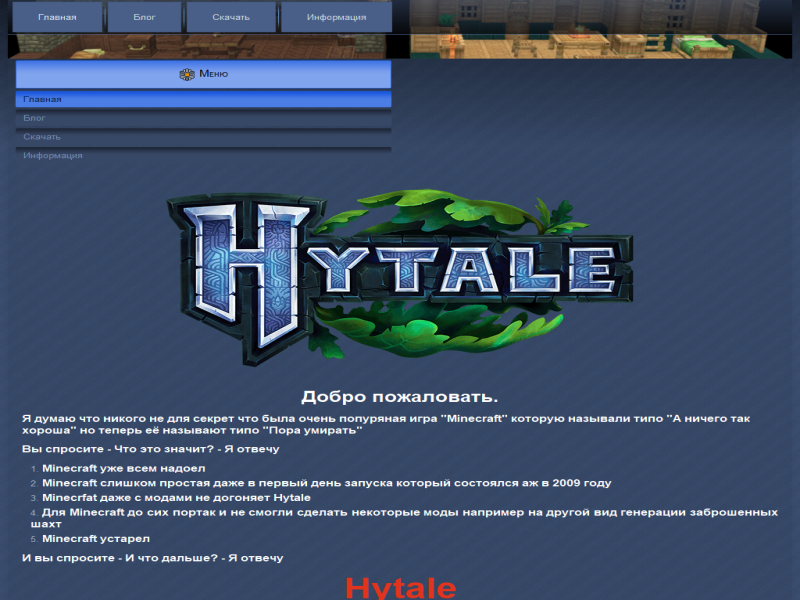
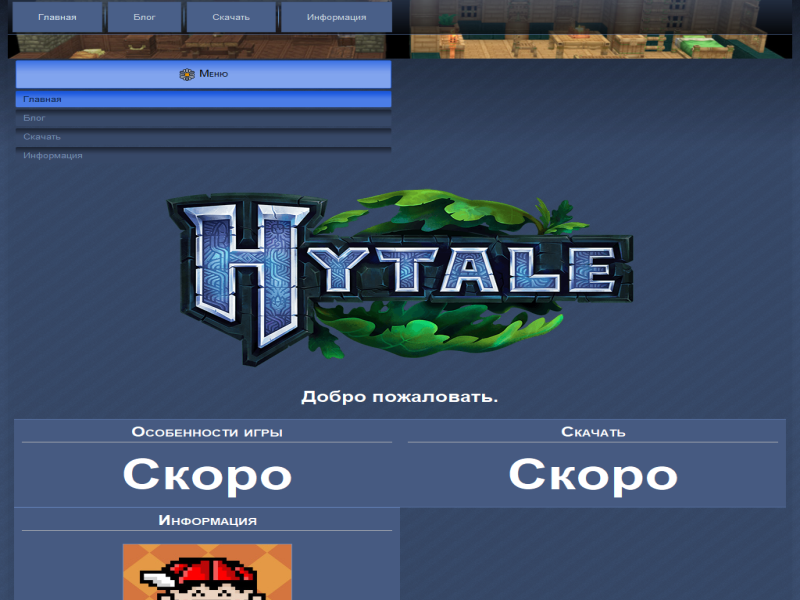
Обновление сайта

Changed region(s): [[0.0, 0.69, 1.0, 1.0]]

diff --git a/index.html b/index.html
@@ -62,39 +62,6 @@
     <div class="art-layout-cell layout-item-2" style="width: 100%" >
         <p style="text-align: center;"><img width="600" height="325" alt="" class="art-lightbox" src="images/logo.png" style="border-top-width: 0px; border-right-width: 0px; border-bottom-width: 0px; border-left-width: 0px; "></p>
         <p style="text-align: center;"><span style="font-weight: bold; font-size: 26px; color: #FFFFFF;">Добро пожаловать.</span></p>
-        <p style="text-align: left;"><span style="color: rgb(255, 255, 255); font-weight: bold; font-size: 16px;">Я думаю что никого не для секрет что была очень попуряная игра "Minecraft" которую называли типо "А ничего так хороша" но теперь её называют типо "Пора умирать"</span></p>
-        <p style="text-align: left;"><span style="color: rgb(255, 255, 255); font-weight: bold; font-size: 16px;">Вы спросите - Что это значит? - Я отвечу</span></p>
-        <p style="text-align: left;">         </p>
-        <ol>
-        <li><span style="color: rgb(255, 255, 255); font-size: 16px; font-weight: bold;">Minecraft уже всем надоел</span><br></li>
-        <li><span style="color: rgb(255, 255, 255); font-size: 16px; font-weight: bold;">Minecraft слишком простая даже в первый день запуска который состоялся аж в 2009 году</span><br></li>
-        <li><span style="color: rgb(255, 255, 255); font-size: 16px; font-weight: bold;">Minecrfat даже с модами не догоняет Hytale</span><br></li>
-        <li><span style="color: rgb(255, 255, 255); font-size: 16px; font-weight: bold;">Для Minecraft до сих портак и не смогли сделать некоторые моды например на другой вид генерации заброшенных шахт</span><br></li>
-        <li><span style="color: rgb(255, 255, 255); font-size: 16px; font-weight: bold;">Minecraft устарел</span></li>
-        </ol>
-        <p style="text-align: justify;"><span style="color: rgb(255, 255, 255); font-size: 16px; font-weight: bold;">И вы спросите - И что дальше? - Я отвечу</span></p>
-        <p style="text-align: center;"><span style="font-weight: bold; font-size: 48px; color: #E2341D;">Hytale</span></p>
-        <p style="text-align: left;"><span style="color: rgb(255, 255, 255); font-size: 16px; font-weight: bold;">Hytale - Это игра в жанре "Песочница" и "Ролевая игра" конкурент игры "Minecraft"</span></p>
-        <p style="text-align: center;"><span style="font-weight: bold; color: rgb(0, 224, 71); font-size: 48px;">Наконец-то</span><span style="color: rgb(255, 255, 255); font-size: 16px; font-weight: bold;"><br></span></p>
-        <p style="text-align: left;"><span style="color: rgb(255, 255, 255); font-size: 16px; font-weight: bold;">В игре в отличии от "Minecraft" есть всё и даже больше</span></p>
-        <p style="text-align: left;">         </p>
-        <ul>
-        <li><span style="color: rgb(255, 255, 255); font-size: 16px; font-weight: bold;">Нормальная анимация</span><br></li>
-        <li><span style="color: rgb(255, 255, 255); font-size: 16px; font-weight: bold;">Искуственный интелекст</span><br></li>
-        <li><span style="color: rgb(255, 255, 255); font-size: 16px; font-weight: bold;">Современная графика</span><br></li>
-        <li><span style="color: rgb(255, 255, 255); font-size: 16px; font-weight: bold;">Тонна типов и видов генерации</span><br></li>
-        <li><span style="color: rgb(255, 255, 255); font-size: 16px; font-weight: bold;">Сервер</span><br></li>
-        <li><span style="color: rgb(255, 255, 255); font-size: 16px; font-weight: bold;">Мощный встроенный</span><span style="color: rgb(255, 255, 255); font-size: 16px; font-weight: bold;">&nbsp;моддинг</span></li>
-        </ul>
-        <p><span style="color: rgb(255, 255, 255); font-size: 16px; font-weight: bold;">Сразу скажу игра разрабатывается компанией "<span style="color: #00E047;">Hypixel Studios</span>" у которого сейчас сервер для игры "Minecraft" и который находится в первом топе среди других серверов</span></p>
-        <p><span style="color: rgb(255, 255, 255); font-size: 16px; font-weight: bold;">И да кстати игра имеет ещё две вещи от которых вы ошалете</span></p>
-        <p></p>
-        <ul>
-        <li><span style="color: rgb(255, 255, 255); font-size: 16px; font-weight: bold;">Игра разрабатывается уже с середины 2015 года тоесть 5 лет</span><br></li>
-        <li><span style="color: rgb(255, 255, 255); font-size: 16px; font-weight: bold;">Этой компании&nbsp;"<span style="color: rgb(0, 224, 71);">Hypixel Studios</span>" помогли из другой компании а именно "<span style="color: #0CDF48;">Riot Games</span>" деньгами а именно "<span style="color: #00E047;">3600000 доларов</span>"</span><br></li>
-        </ul>
-        <p></p>
-        <p><span style="color: rgb(255, 255, 255); font-size: 16px; font-weight: bold;">Итак. Если вы попали сюда случайно то ничего страшного. А если вы хотели попасть именно сюда то добро пожаловать. На нашем сайте будет много всего интерестного по этой игре</span></p>
         <p>         </p>
         <p>     </p>
     </div>
@@ -111,7 +78,7 @@
         <h3 style="padding-bottom: 5px; border-bottom-width: 1px; border-bottom-style: solid; border-bottom-color: rgb(189, 189, 189);"><span style="color: rgb(255, 255, 255); font-size: 24px; font-weight: bold;">Скачать</span><br></h3>
         <p style="text-align: center;"><span style="color: rgb(255, 255, 255); font-weight: bold; font-size: 72px;">Скоро</span><span style="color: rgb(255, 255, 255); font-size: 24px; font-weight: bold;"><br></span></p>
     </div><div class="art-layout-cell layout-item-3" style="width: 33%" >
-        <h3 style="padding-bottom: 5px; border-bottom-width: 1px; border-bottom-style: solid; border-bottom-color: rgb(189, 189, 189);"><span style="font-size: 24px; font-weight: bold; color: rgb(255, 255, 255);">Информация о сайте</span></h3>
+        <h3 style="padding-bottom: 5px; border-bottom-width: 1px; border-bottom-style: solid; border-bottom-color: rgb(189, 189, 189);"><span style="font-size: 24px; font-weight: bold; color: rgb(255, 255, 255);">Информация</span></h3>
         <p style="text-align: center;"><a href="info.html"><img width="215" height="215" alt="" src="images/unnamed.jpg" class=""></a><br></p>
     </div>
     </div>

diff --git a/info.html b/info.html
@@ -49,7 +49,36 @@
                         <div class="art-layout-cell art-content clearfix"><article class="art-post art-article">
                                 
                                                 
-                <div class="art-postcontent art-postcontent-0 clearfix"><p><br></p></div>
+                <div class="art-postcontent art-postcontent-0 clearfix"><p style="text-align: center;"><img width="600" height="325" alt="" class="art-lightbox" src="images/logo.png" style="border-top-width: 0px; border-right-width: 0px; border-bottom-width: 0px; border-left-width: 0px;"><span style="-webkit-border-horizontal-spacing: 10px;"><span style="color: rgb(255, 255, 255); font-weight: bold; font-size: 16px;"><br></span></span></p>
+<p style="text-align: left;"><span style="-webkit-border-horizontal-spacing: 10px;"><span style="color: rgb(255, 255, 255); font-weight: bold; font-size: 16px;">Я думаю что никого не для секрет что была очень попуряная игра "Minecraft" которую называли типо "А ничего так хороша" но теперь её называют типо "Пора умирать"</span></span></p>
+<p style="text-align: left;"><span style="color: rgb(255, 255, 255); font-weight: bold; font-size: 16px;">Вы спросите - Что это значит? - Я отвечу</span></p>
+<ol>
+<li><span style="color: rgb(255, 255, 255); font-size: 16px; font-weight: bold;">Minecraft уже всем надоел</span><br></li>
+<li><span style="color: rgb(255, 255, 255); font-size: 16px; font-weight: bold;">Minecraft слишком простая даже в первый день запуска который состоялся аж в 2009 году</span><br></li>
+<li><span style="color: rgb(255, 255, 255); font-size: 16px; font-weight: bold;">Minecrfat даже с модами не догоняет Hytale</span><br></li>
+<li><span style="color: rgb(255, 255, 255); font-size: 16px; font-weight: bold;">Для Minecraft до сих портак и не смогли сделать некоторые моды например на другой вид генерации заброшенных шахт</span><br></li>
+<li><span style="color: rgb(255, 255, 255); font-size: 16px; font-weight: bold;">Minecraft устарел</span></li>
+</ol>
+<p><span style="color: rgb(255, 255, 255); font-size: 16px; font-weight: bold;">И вы спросите - И что дальше? - Я отвечу</span></p>
+<p style="text-align: center;"><span style="font-weight: bold; font-size: 48px; color: rgb(226, 52, 29);">Hytale</span></p>
+<p style="text-align: left;"><span style="color: rgb(255, 255, 255); font-size: 16px; font-weight: bold;">Hytale - Это игра в жанре "Песочница" и "Ролевая игра" конкурент игры "Minecraft"</span></p>
+<p style="text-align: center;"><span style="font-weight: bold; color: rgb(0, 224, 71); font-size: 48px;">Наконец-то</span><br></p>
+<p style="text-align: left;"><span style="color: rgb(255, 255, 255); font-size: 16px; font-weight: bold;">В игре в отличии от "Minecraft" есть всё и даже больше</span></p>
+<ul>
+<li><span style="color: rgb(255, 255, 255); font-size: 16px; font-weight: bold;">Нормальная анимация</span><br></li>
+<li><span style="color: rgb(255, 255, 255); font-size: 16px; font-weight: bold;">Искуственный интелекст</span><br></li>
+<li><span style="color: rgb(255, 255, 255); font-size: 16px; font-weight: bold;">Современная графика</span><br></li>
+<li><span style="color: rgb(255, 255, 255); font-size: 16px; font-weight: bold;">Тонна типов и видов генерации</span><br></li>
+<li><span style="color: rgb(255, 255, 255); font-size: 16px; font-weight: bold;">Сервер</span><br></li>
+<li><span style="color: rgb(255, 255, 255); font-size: 16px; font-weight: bold;">Мощный встроенный</span><span style="color: rgb(255, 255, 255); font-size: 16px; font-weight: bold;">&nbsp;моддинг</span></li>
+</ul>
+<p><span style="color: rgb(255, 255, 255); font-size: 16px; font-weight: bold;">Сразу скажу игра разрабатывается компанией "<span style="color: rgb(0, 224, 71);">Hypixel Studios</span>" у которого сейчас сервер для игры "Minecraft" и который находится в первом топе среди других серверов</span></p>
+<p><span style="color: rgb(255, 255, 255); font-size: 16px; font-weight: bold;">И да кстати игра имеет ещё две вещи от которых вы ошалете</span></p>
+<ul>
+<li><span style="color: rgb(255, 255, 255); font-size: 16px; font-weight: bold;">Игра разрабатывается уже с середины 2015 года тоесть 5 лет</span><br></li>
+<li><span style="color: rgb(255, 255, 255); font-size: 16px; font-weight: bold;">Этой компании&nbsp;"<span style="color: rgb(0, 224, 71);">Hypixel Studios</span>" помогли из другой компании а именно "<span style="color: rgb(12, 223, 72);">Riot Games</span>" деньгами а именно "<span style="color: rgb(0, 224, 71);">3600000 доларов</span>"</span><br></li>
+</ul>
+<p><span style="color: rgb(255, 255, 255); font-size: 16px; font-weight: bold;">Итак. Если вы попали сюда случайно то ничего страшного. А если вы хотели попасть именно сюда то добро пожаловать. На нашем сайте будет много всего интерестного по этой игре</span></p></div>
 </article></div>
                     </div>
                 </div>
